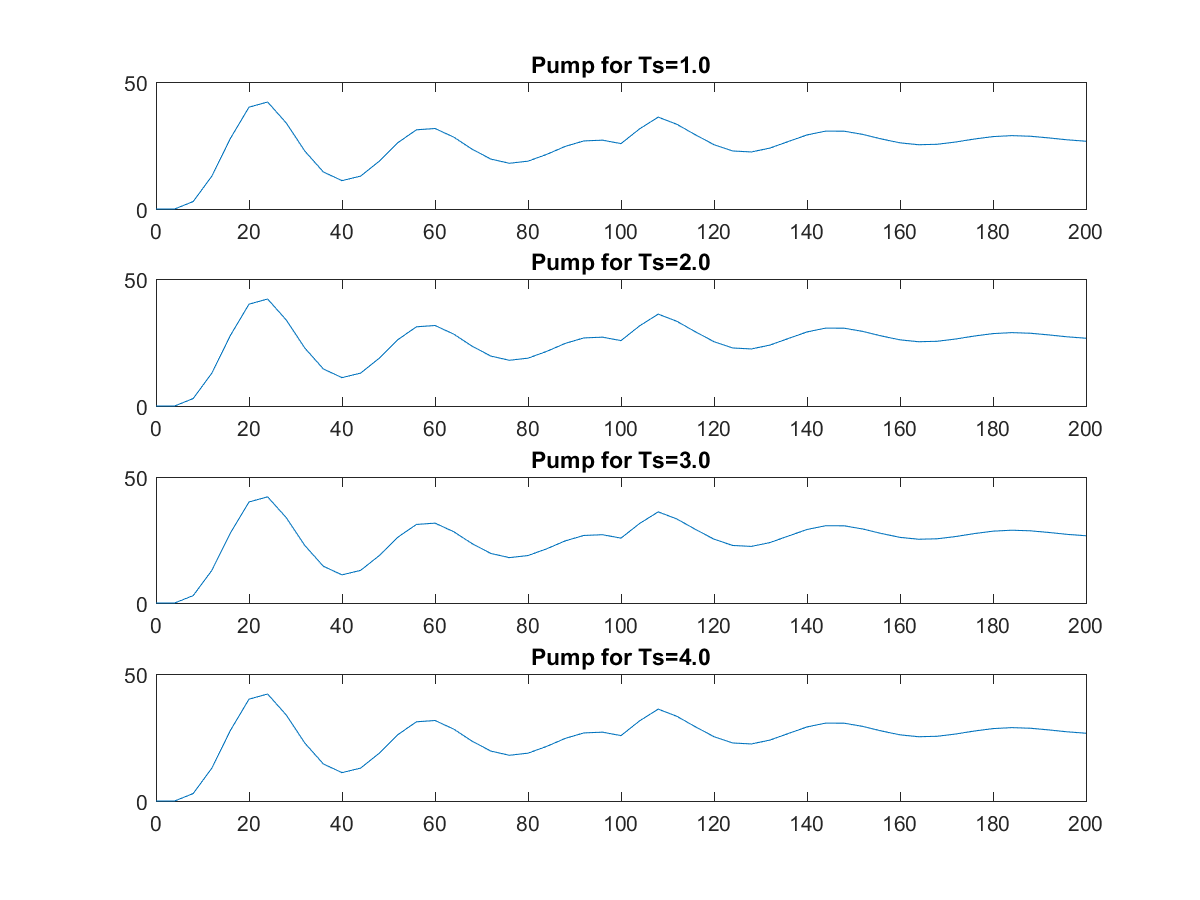
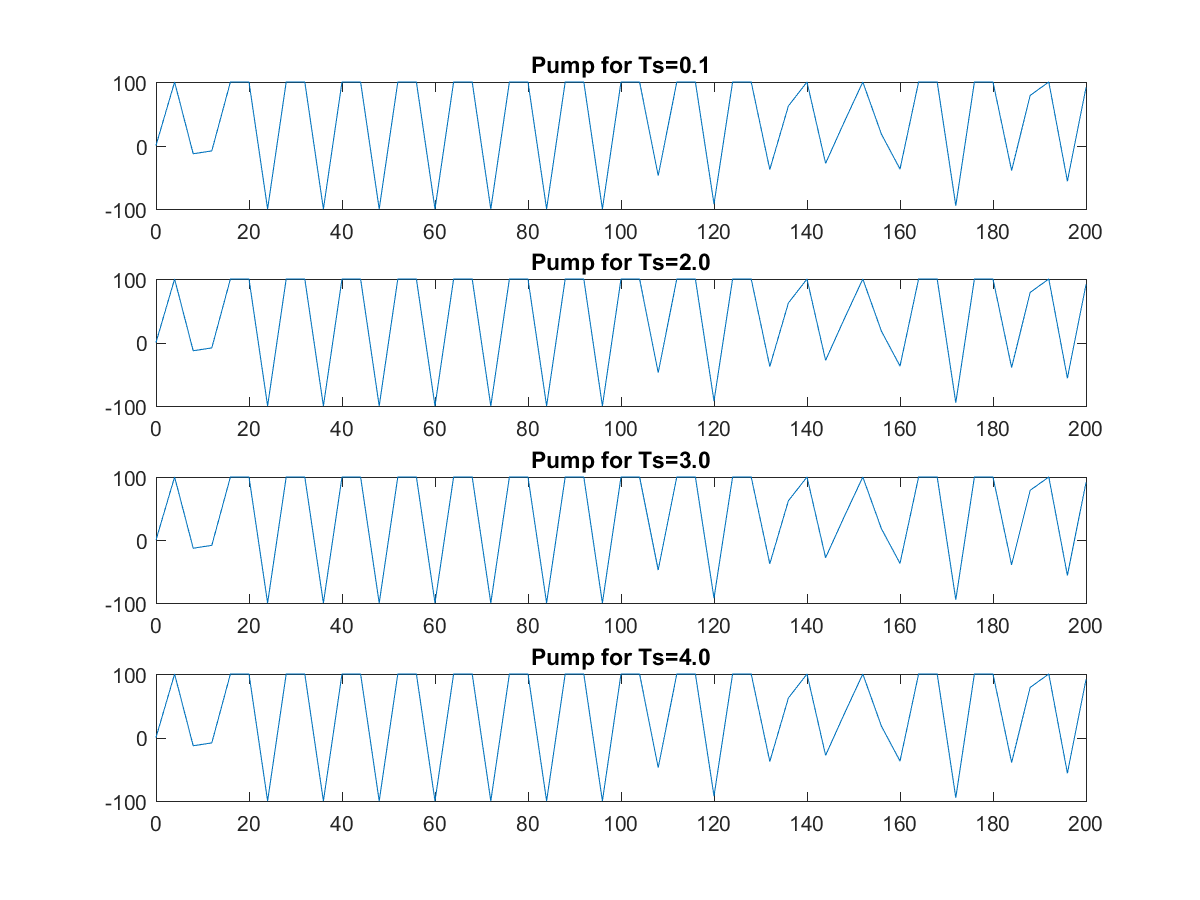
fixed images from matlab

diff --git a/Homework1/Code/pid_design.m b/Homework1/Code/pid_design.m
@@ -79,8 +79,8 @@ print(202, '-dpng', '.\images\pump_samplings')
 %%%%%%%%%%%%%%%%%%%%%%%%%%%%%%%%%%%%%%%%%%%%%%%%%%%
 % Digital Control design
 %%%%%%%%%%%%%%%%%%%%%%%%%%%%%%%%%%%%%%%%%%%%%%%%%%%
- Ts_all = [1 2 3 4]; % Sampling time
- quant = 200/(2^60);
+ Ts_all = [0.1 2 3 4]; % Sampling time
+ quant = 200/(2^60); % quantization level
 
 % Simulate and plot for several sampling times for q8 
 % Figure 100: h1
@@ -116,26 +116,12 @@ print(100, '-dpng', '.\images\h1_samplings_ss')
 print(101, '-dpng', '.\images\h2_samplings_ss')
 print(102, '-dpng', '.\images\pump_samplings_ss')
 close all
-Ts = 4
-F_dg = c2d(F, Ts, 'zoh');
-[Ad,Bd,Cd,Dd] = tf2ss(F_dg.num{1}, F_dg.den{1});
-sim('tanks_discrete')
-% h1
-figure(600)
-subplot(3, 1, 1)
-plot(h1_d.Time, h1_d.Data)
-title(sprintf('h1 for Ts=%1.1f', Ts))
-% h2
-subplot(3, 1, 2)
-plot(h2_d.Time, h2_d.Data)
-title(sprintf('h2 for Ts=%1.1f', Ts))
-% pump
-subplot(3,1,3)
-plot(pump_d.Time, pump_d.Data)
-title(sprintf('Pump for Ts=%1.1f', Ts))
 
-print(600, '-dpng', '.\images\all_q11')
-% Calculate Ts for q10
+%Create a picture with all three h1, h2, and pump
+%For comparison with Q17
+Ts = 4
+
+
 disp('Question 10')
 [Gm,Pm,Wcg,Wc] = margin(Go);
 fprintf('The crossover frequency Wc=%f rad/sec\n', Wc)
@@ -180,6 +166,21 @@ print(420, '-dpng', '.\images\h1_Gdc_c2d')
 print(421, '-dpng', '.\images\h2_Gdc_c2d')
 print(422, '-dpng', '.\images\pump_Gdc_c2d')
 
+% h1
+figure(600)
+subplot(3, 1, 1)
+plot(h1_d.Time, h1_d.Data)
+title(sprintf('h1 for Ts=%1.1f', Ts))
+% h2
+subplot(3, 1, 2)
+plot(h2_d.Time, h2_d.Data)
+title(sprintf('h2 for Ts=%1.1f', Ts))
+% pump
+subplot(3,1,3)
+plot(pump_d.Time, pump_d.Data)
+title(sprintf('Pump for Ts=%1.1f', Ts))
+
+print(600, '-dpng', '.\images\all_q11')
 quant = 200/(2^6);
 all_quants = [3, 4, 6, 10]
 
@@ -319,5 +320,5 @@ fprintf('Question 19\n')
 fprintf('done\n')
 
 fprintf('Question 20\n')
-fprintf('The performance degrades around %d\n', quantlevel)
+fprintf('The performance degrades around %d\n', 6)
 
